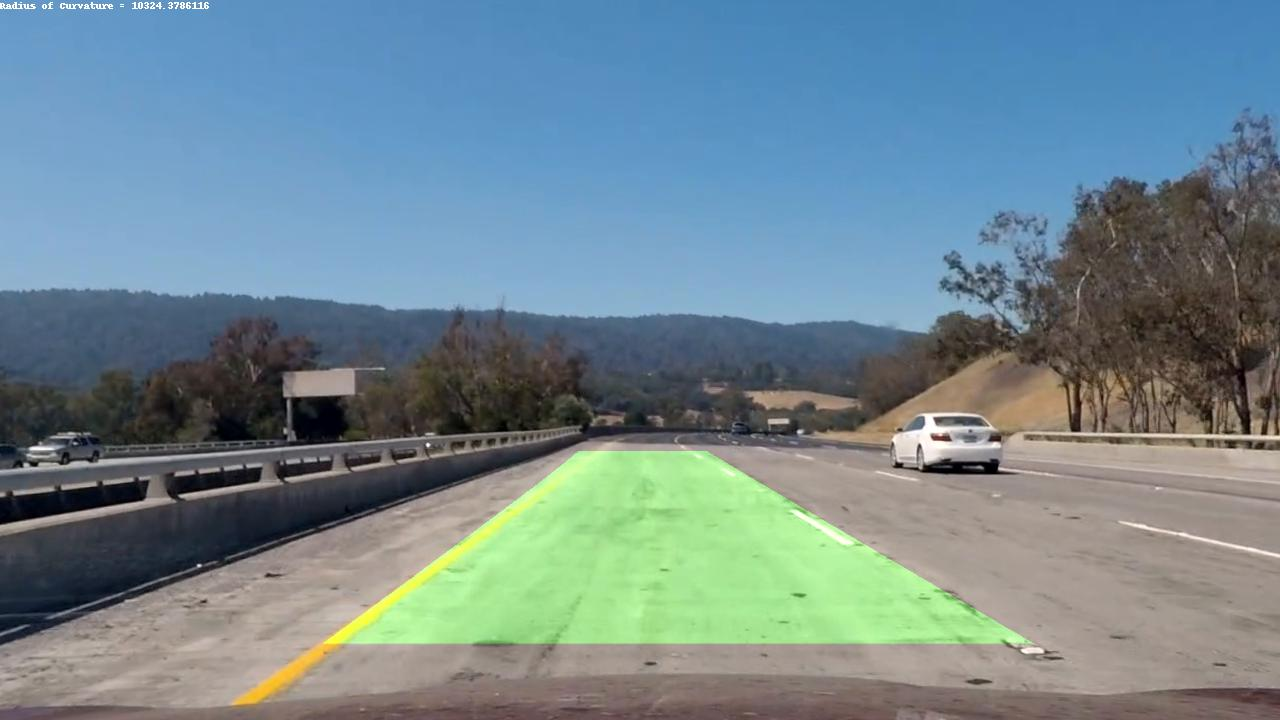
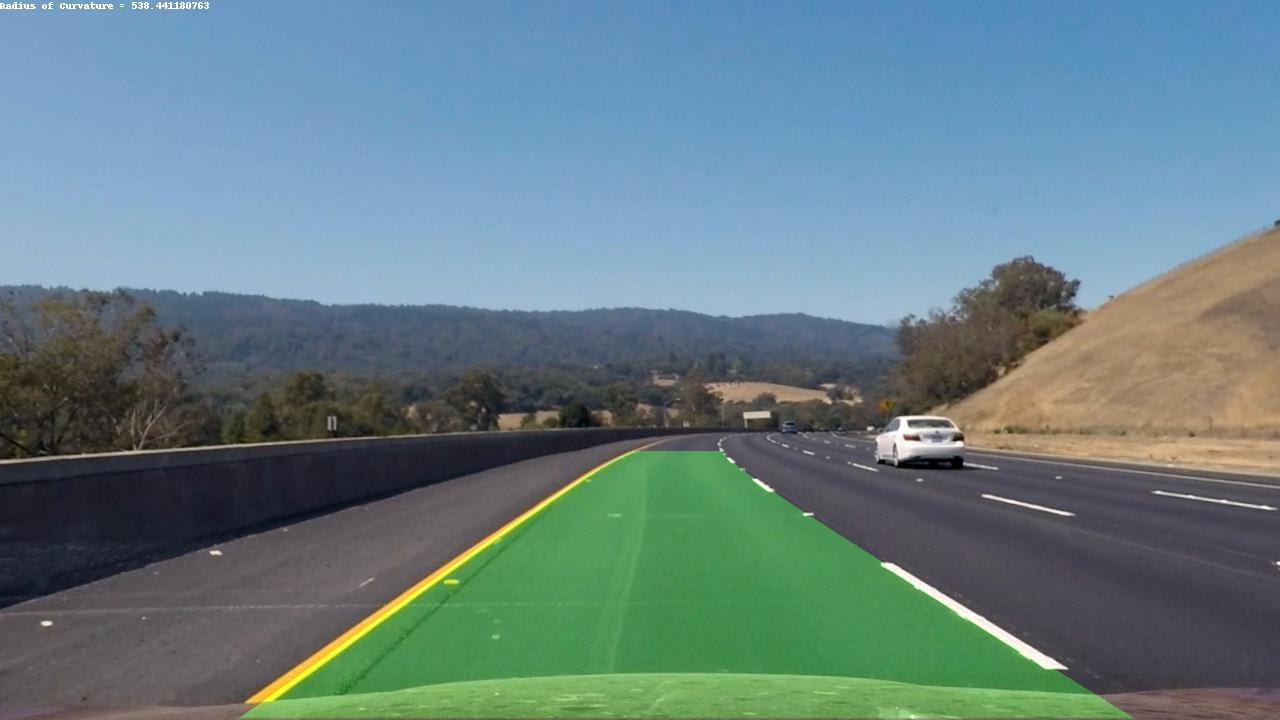
add a first writeup and an for the writeup alteres code wich has to be changed back befor submission.

diff --git a/src/main.py b/src/main.py
@@ -8,25 +8,12 @@ import src.sliding_window as sw
 import src.existing_line_search as els
 from src.line import Line
 import src.img_projector as img_pr
-import src.test_curvature as crv
 from PIL import Image
 from PIL import ImageDraw
 
 # define Video File to use
 VIDEO_PATH = '../project_video.mp4'
 VIDEO_OUTPUT = '../output_images/output.mp4'
-
-# define undistortion points to use
-src_pt = np.float32([[560, 480],
-                     [791, 480],
-                     [1200, 720],
-                     [247, 720]])
-
-dst_pt = np.float32([[280, 400],
-                     [1200, 400],
-                     [1050, 750],
-                     [280, 750]])
-
 
 def process_image(img):
     """
@@ -40,30 +27,41 @@ def process_image(img):
 
     # get a binary image using filters and sobel
     binary_output = img_f.get_binary_image(undist)
-    warped = cv2.warpPerspective(binary_output, M, (img_size[1], img_size[0]), flags=cv2.INTER_LINEAR)
 
+    # define undistortion points to use
+    src_pt = np.float32([[img_size[1]*7/16, img_size[0]*2/3],
+                         [img_size[1]*10/16, img_size[0]*2/3],
+                         [img_size[1]*15/16, img_size[0]],
+                         [img_size[1]*3/16, img_size[0]]])
+
+    dst_pt = np.float32([[img_size[1]*7/32, img_size[0]*5/9],
+                         [img_size[1]*15/16, img_size[0]*5/9],
+                         [img_size[1]*25/32, img_size[0]],
+                         [img_size[1]*7/32, img_size[0]]])
+
+    # transforming the image to top down view
+    M = cv2.getPerspectiveTransform(src_pt, dst_pt)
+    Minv = cv2.getPerspectiveTransform(dst_pt, src_pt)
+    warped = cv2.warpPerspective(binary_output, M, (img_size[1], img_size[0]), flags=cv2.INTER_LINEAR)
 
     # sanity check the current line
     if lline.sanity_check() and rline.sanity_check():
         # use existing line to find line in the next frame
-        left_fit, right_fit, left_fitx, right_fitx, ploty, result, left_lane_pts, right_lane_pts = els.existing_line_search(warped,
+        left_fit, right_fit, left_fitx, right_fitx, ploty, result = els.existing_line_search(warped,
                                                                                              lline.recent_fits[-1],
                                                                                              rline.recent_fits[-1],
                                                                                              margin=100)
     else:
         # search for inital lines or reset the lines and search again if lane are lost
-        left_fit, right_fit, left_fitx, right_fitx, ploty, result, left_lane_pts, right_lane_pts = sw.sliding_window(warped)
+        left_fit, right_fit, left_fitx, right_fitx, ploty, result = sw.sliding_window(warped)
 
     # update lanes
-    lline.update_line(line_fit=left_fit, line_fitx=left_fitx, line_fity=ploty, lane_pts=left_lane_pts)
-    rline.update_line(line_fit=right_fit, line_fitx=right_fitx, line_fity=ploty, lane_pts=right_lane_pts)
+    lline.update_line(line_fit=left_fit, line_fitx=left_fitx, line_fity=ploty)
+    rline.update_line(line_fit=right_fit, line_fitx=right_fitx, line_fity=ploty)
 
     result = img_pr.project_back(img, undist, warped, Minv, lline.bestx, rline.bestx, ploty)
 
-    # calc radius
-    left_rad, right_rad = crv.cal_rad(left_fit, right_fit, left_fitx, right_fitx, ploty)
-
-    mean_rad = (abs(left_rad) + abs(right_rad))/2
+    mean_rad = (abs(lline.radius_of_curvature) + abs(rline.radius_of_curvature))/2
 
     image_result = Image.fromarray(result)
     draw = ImageDraw.Draw(image_result)
@@ -72,7 +70,21 @@ def process_image(img):
 
     return result
 
+import matplotlib.pyplot as plt
+import matplotlib.image as mpimg
 
+TEST_IMG_PATH = '../test_images/test3.jpg'
+#TEST_IMG_PATH = '../camera_cal/calibration1.jpg'
+
+def test_print(before_img, after_img):
+    f, (ax1, ax2) = plt.subplots(1, 2, figsize=(24, 9))
+    f.tight_layout()
+    ax1.imshow(before_img)
+    ax1.set_title('Original Image', fontsize=50)
+    ax2.imshow(after_img, cmap='gray')
+    ax2.set_title('Undistorted Image', fontsize=50)
+    plt.subplots_adjust(left=0., right=1, top=0.9, bottom=0.)
+    plt.show()
 
 def main():
     """
@@ -80,17 +92,18 @@ def main():
     :return:
     """
     # detect lanes in the video file
-    white_output = VIDEO_OUTPUT
-    clip1 = VideoFileClip(VIDEO_PATH)
-    white_clip = clip1.fl_image(process_image)
-    white_clip.write_videofile(white_output, audio=False)
+    #white_output = VIDEO_OUTPUT
+    #clip1 = VideoFileClip(VIDEO_PATH)
+    #white_clip = clip1.fl_image(process_image)
+    #white_clip.write_videofile(white_output, audio=False)
+
+    img = mpimg.imread(TEST_IMG_PATH)
+    process_image(img)
+
 
 if __name__ == '__main__':
     # initialize camera undistortion
     ret, mtx, dist, rvecs, tvecs = dc.get_dist_coeff()
-    # transforming the image to top down view
-    M = cv2.getPerspectiveTransform(src_pt, dst_pt)
-    Minv = cv2.getPerspectiveTransform(dst_pt, src_pt)
     # initialize line
     lline = Line()
     rline = Line()

diff --git a/src/line.py b/src/line.py
@@ -1,48 +1,45 @@
 import numpy as np
+import src.test_curvature as crv
 
-# history size
+# history size in frames
 N = 10
 class Line():
     """
     Define a class to receive the characteristics of each line detection
     :ivar detected: was the line detected in the last iteration?
     :ivar recent_xfitted: x values of the last n fits of the line
+    :ivar bestx: average x values of the fitted line over the last n iterations
+    :ivar recent_fits: polynomial cefficients all together in a list
+    :ivar fest:fit_cum: polynomial coefficients summed up over the last n iterations
+    :ivar best_fit: polynomial coefficients averaged over the last n iterations
+    :ivar current_fit: polynomial coefficients for the most recent fit
+    :ivar radius_curvature: radius of curvature of the line in some units
+    :ivar line_base_pos: distance in meters of vehicle center from the line
+    :ivar diffs: difference in fit coefficients between last and new fits
+    :ivar allx: x values for detected line pixels
+    :ivar ally: y values for detected line pixels
     """
     def __init__(self):
         self.detected = False
         self.recent_xfitted = []
-        # average x values of the fitted line over the last n iterations
         self.bestx = None
-        # polynomial cefficients all together in a list
-
         self.recent_fits = []
-        # polynomial coefficients summed up over the last n iterations
         self.best_fit_cum = np.array([0, 0, 0], dtype='float')
-        # polynomial coefficients averaged over the last n iterations
         self.best_fit = None
-        # polynomial coefficients for the most recent fit
         self.current_fit = [np.array([False])]
-
-        # radius of curvature of the line in some units
         self.radius_of_curvature = None
-        # distance in meters of vehicle center from the line
         self.line_base_pos = None
-        # difference in fit coefficients between last and new fits
         self.diffs = np.array([0, 0, 0], dtype='float')
-        self.lane_confidence = 1
-
-        # x values for detected line pixels
         self.allx = None
-        # y values for detected line pixels
         self.ally = None
 
-    def update_line(self, line_fit: np.array, line_fitx: np.array, line_fity: np.array, lane_pts: np.array):
+    def update_line(self, line_fit: np.array, line_fitx: np.array, line_fity: np.array):
         """
         Updates the line.
         :param line_fit: polynom of the current line
         :param line_fitx: x values of the current line
-        :return:
         """
+        # update lane fit
         if line_fit.any():
             self.detected = True
             self.recent_fits.append(line_fit)
@@ -50,26 +47,29 @@ class Line():
             self.best_fit_cum += line_fit
             self.current_fit = line_fit
             self.best_fit = self.best_fit_cum/len(self.recent_fits)
-            self.lane_confidence = len(lane_pts)/np.sum(self.diffs)
         else:
             self.detected = False
-            self.lane_confidence = 0
 
+        # update line pxs
         if line_fitx.any():
             self.recent_xfitted.append(line_fitx)
             if len(self.recent_xfitted) > N:
                 self.recent_xfitted.pop(0)
             self.bestx = np.average(self.recent_xfitted, axis=0)
 
-        # TODO
-        self.radius_of_curvature = 0
+        # calc radius
+        self.radius_of_curvature = crv.cal_rad(self.bestx, line_fity)
         self.line_base_pos = None
 
         self.allx = line_fitx
         self.ally = line_fity
 
     def sanity_check(self):
+        """
+        Checks if the new line is reasonable with respect to the last one
+        :return:
+        """
         res = True
         res = res and self.detected
-        res = res and np.sum(self.diffs) < 1
+        res = res and np.sum(self.diffs) < 1  # experimental value
         return res

diff --git a/src/sliding_window.py b/src/sliding_window.py
@@ -11,7 +11,6 @@ def test_print_lanes(out_img, left_fitx: np.array, right_fitx: np.array, ploty: 
     :param left_fitx: left lane fit
     :param right_fitx: right lane fit
     :param ploty: y coordinates of the fit
-    :return:
     """
     im = Image.fromarray(np.array(out_img, dtype=np.uint8))
     plt.imshow(im)
@@ -28,7 +27,7 @@ def sliding_window(binary_warped: np.array):
     This function takes a histogram of the bottom half of the image and gradually searches for
     a line in left and right half using a sliding window approach.
     :param binary_warped:
-    :return:
+    :return: line fittings (left, right), line x pixels (left, right), line y pixels (for both the same), result picture
     """
     histogram = np.sum(binary_warped[binary_warped.shape[0]//2:, :], axis=0)
     # Create an output image to draw on and  visualize the result
@@ -106,4 +105,4 @@ def sliding_window(binary_warped: np.array):
     out_img[lefty, leftx] = [255, 0, 0]
     out_img[righty, rightx] = [0, 0, 255]
 
-    return [left_fit, right_fit, left_fitx, right_fitx, ploty, out_img, left_lane_inds, right_lane_inds]
+    return [left_fit, right_fit, left_fitx, right_fitx, ploty, out_img]

diff --git a/src/existing_line_search.py b/src/existing_line_search.py
@@ -7,7 +7,6 @@ from PIL import Image
 def plot_existing_line(result, left_fitx: np.array, right_fitx: np.array, ploty: np.array):
     """
     Convenience function to plot the lines.
-    :return:
     """
     im = Image.fromarray(np.array(result, dtype=np.uint8))
     plt.imshow(im)
@@ -26,7 +25,7 @@ def existing_line_search(binary_warped: np.array, left_fit: np.array, right_fit:
     :param left_fit: left line fit
     :param right_fit: right line fit
     :param margin: the margin to search in near the actual line.
-    :return:
+    :return: line fittings (left, right), line x pixels (left, right), line y pixels (for both the same), result picture
     """
     nonzero = binary_warped.nonzero()
     nonzeroy = np.array(nonzero[0])
@@ -76,4 +75,4 @@ def existing_line_search(binary_warped: np.array, left_fit: np.array, right_fit:
     cv2.fillPoly(window_img, np.int_([right_line_pts]), (0, 255, 0))
     result = cv2.addWeighted(out_img, 1, window_img, 0.1, 0)
 
-    return [left_fit, right_fit, left_fitx, right_fitx, ploty, result, left_line_pts, right_line_pts]
+    return [left_fit, right_fit, left_fitx, right_fitx, ploty, result]

diff --git a/src/test_curvature.py b/src/test_curvature.py
@@ -1,7 +1,7 @@
 import numpy as np
-import matplotlib.pyplot as plt
 
-def cal_rad(left_fit, right_fit, left_fitx, right_fitx, ploty):
+
+def cal_rad(fitx, ploty):
     y_eval = np.max(ploty)
 
     # Define conversions in x and y from pixels space to meters
@@ -9,10 +9,8 @@ def cal_rad(left_fit, right_fit, left_fitx, right_fitx, ploty):
     xm_per_pix = 3.7/700 # meters per pixel in x dimension
 
     # Fit new polynomials to x,y in world space
-    left_fit_cr = np.polyfit(ploty*ym_per_pix, left_fitx*xm_per_pix, 2)
-    right_fit_cr = np.polyfit(ploty*ym_per_pix, right_fitx*xm_per_pix, 2)
+    left_fit_cr = np.polyfit(ploty * ym_per_pix, fitx * xm_per_pix, 2)
     # Calculate the new radii of curvature
-    left_curverad = ((1 + (2*left_fit_cr[0]*y_eval*ym_per_pix + left_fit_cr[1])**2)**1.5) / np.absolute(2*left_fit_cr[0])
-    right_curverad = ((1 + (2*right_fit_cr[0]*y_eval*ym_per_pix + right_fit_cr[1])**2)**1.5) / np.absolute(2*right_fit_cr[0])
+    curverad = ((1 + (2*left_fit_cr[0]*y_eval*ym_per_pix + left_fit_cr[1])**2)**1.5) / np.absolute(2*left_fit_cr[0])
 
-    return left_curverad, right_curverad
+    return curverad

diff --git a/src/img_projector.py b/src/img_projector.py
@@ -3,15 +3,15 @@ import cv2
 
 def project_back(img, undist, warped, Minv: np.array, left_fitx: np.array, right_fitx:np.array, ploty:np.array):
     """
-    Project warped and detected lanes back to riginal image
-    :param img:
-    :param undist:
-    :param warped:
-    :param Minv:
-    :param left_fitx:
-    :param right_fitx:
-    :param ploty:
-    :return:
+    Project warped and detected lanes back to original image
+    :param img: original image
+    :param undist: undistorted image
+    :param warped: warped image to project back
+    :param Minv: inverse projection matrix
+    :param left_fitx: x coordinates of the left lane
+    :param right_fitx: x coordinated of the right lane
+    :param ploty: y coordinates of the lanes
+    :return: back projected image fused the original one
     """
     # draw on pictures
     # Create an image to draw the lines on

diff --git a/src/image_filter.py b/src/image_filter.py
@@ -99,7 +99,7 @@ def _color_thresh(img, thresh=(170, 255)):
 
 def get_binary_image(image: np.array):
     """
-    Allpies all filters to the image to create a binary image with only the unfiltered pixels remaining.
+    Applies all filters to the image to create a binary image with only the unfiltered pixels remaining.
     The filters are tuned for lane detection
     :param image: image to filter
     :return: filtered image
